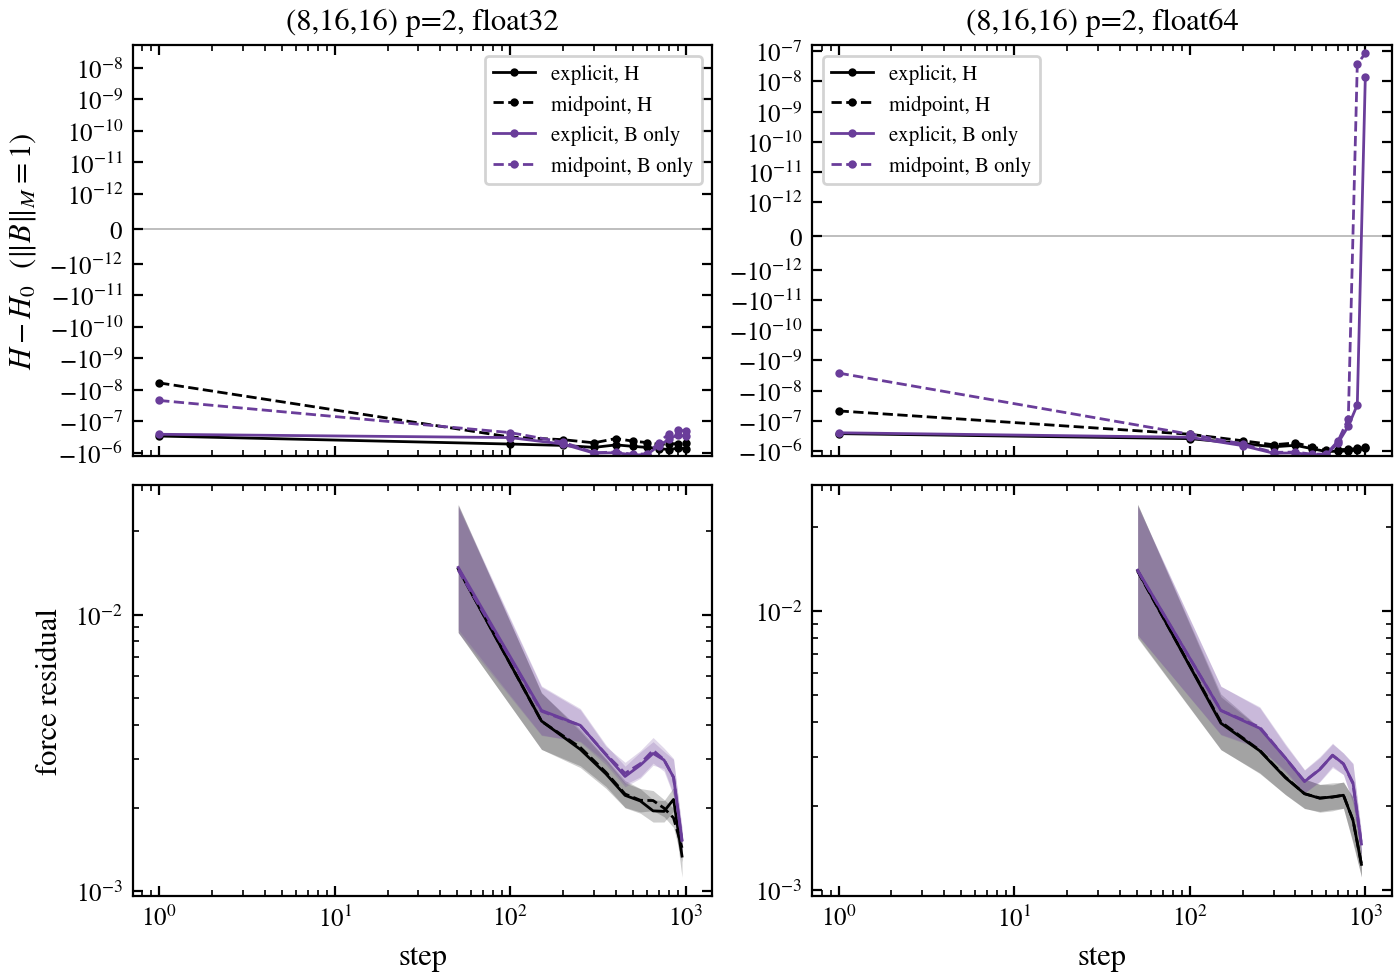
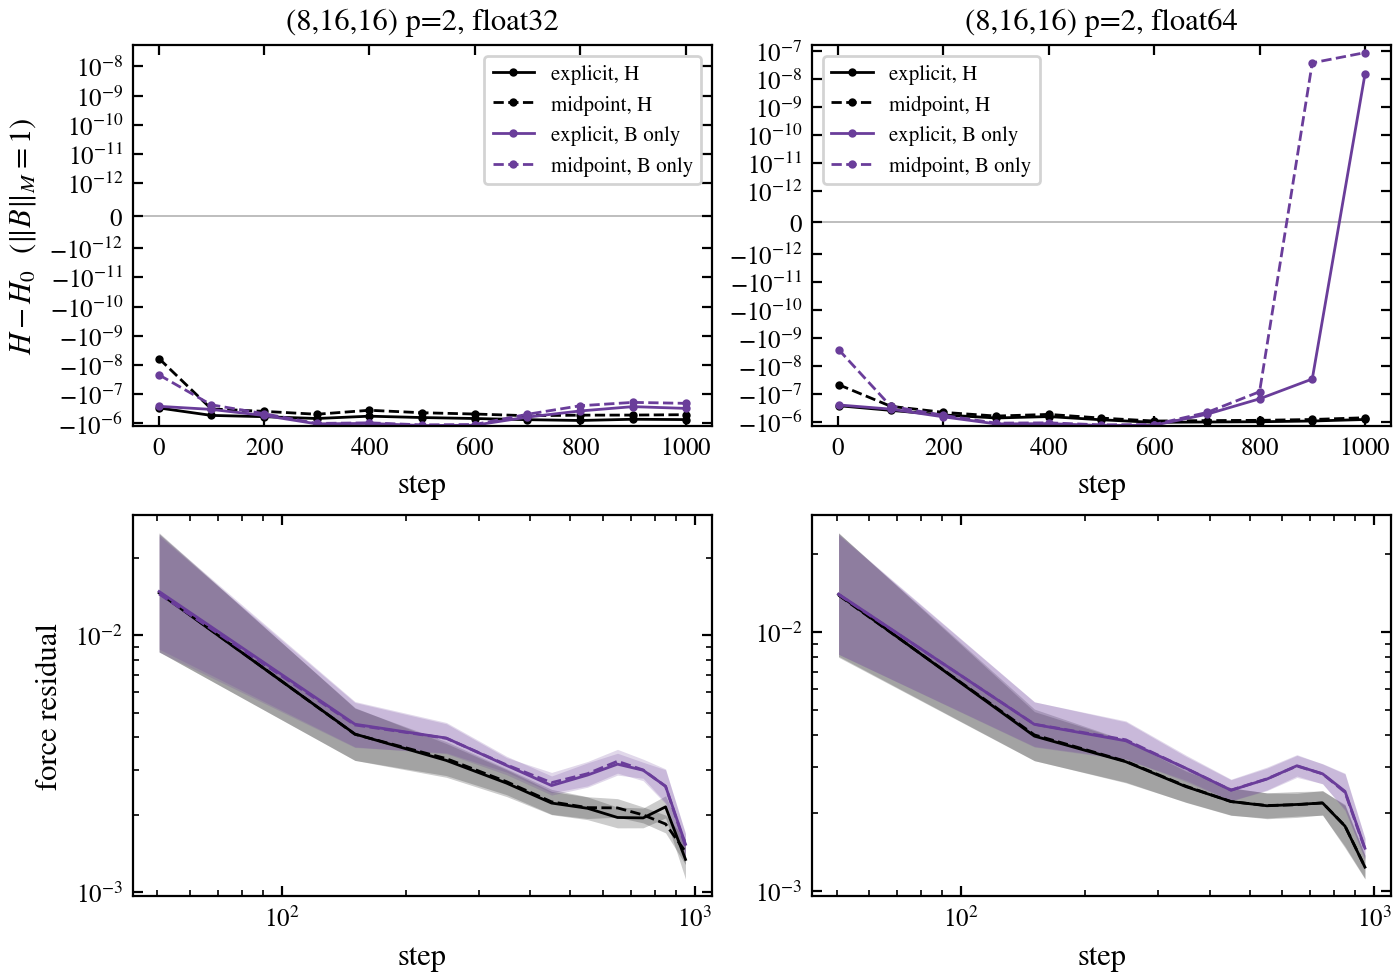
midpoint figures: linear step axis on the helicity panels of eight.png

diff --git a/scripts/midpoint_figures.py b/scripts/midpoint_figures.py
@@ -139,7 +139,7 @@ def eight_figure(arms, figdir):
     (explicit / midpoint) on the (8,16,16) p=2 mesh: rows the quantity,
     columns the precision, colour the route, dash the scheme."""
     d = dict(arms)
-    fig, axes = plt.subplots(2, 2, figsize=figsize("text", rows=2, cols=2, aspect=0.7), sharex="col")
+    fig, axes = plt.subplots(2, 2, figsize=figsize("text", rows=2, cols=2, aspect=0.7))
     for col, prec in enumerate(("float32", "float64")):
         for route, colour in (("H", 0), ("B", 2)):
             for dash, arm in enumerate(EIGHT[(prec, route)]):
@@ -153,7 +153,7 @@ def eight_figure(arms, figdir):
                 plot_trace(axes[1, col], j["trace"]["resid"], log=True, **st)
         axes[0, col].axhline(0, color="0.7", lw=0.6, zorder=0)
         axes[0, col].set_yscale("symlog", linthresh=1e-12)
-        axes[0, col].set(title=f"(8,16,16) p=2, {prec}")
+        axes[0, col].set(title=f"(8,16,16) p=2, {prec}", xlabel="step")
         axes[1, col].set(xscale="log", yscale="log", xlabel="step")
         axes[0, col].legend()
     axes[0, 0].set_ylabel(r"$H - H_0$  ($\|B\|_M = 1$)")
